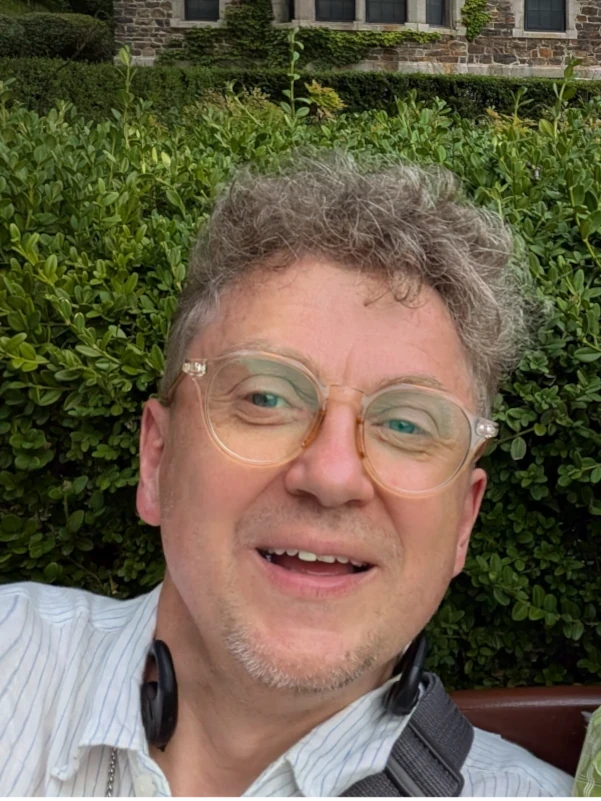
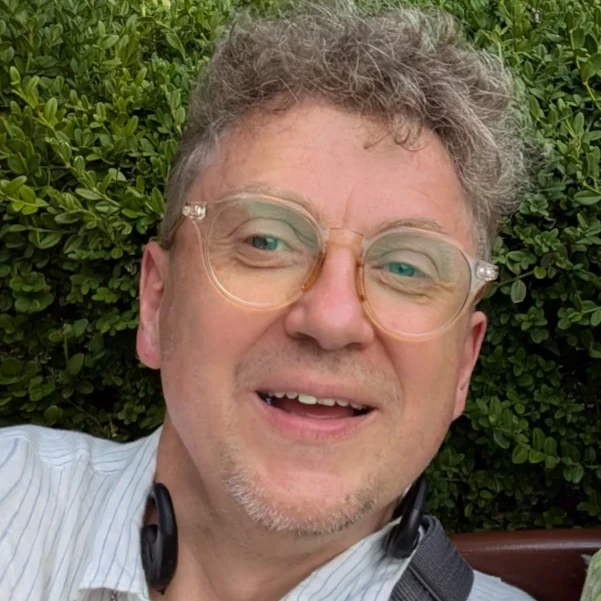
Porträts der Betreuenden quadratisch, neue Fotos 600 × 600 (claude code)

diff --git a/src/style.css b/src/style.css
@@ -859,12 +859,12 @@ dl.contact dd:last-child { margin-bottom: 0; }
 }
 
 /* Das Porträt reicht bis an den Kartenrand, direkt unter der Goldlinie.
-   Ein Foto wird auf 3:4 (Hochformat) zugeschnitten, Gesichter sitzen im oberen Drittel.
+   Ein Foto wird quadratisch zugeschnitten, Gesichter sitzen im oberen Drittel.
    Solange keines vorliegt, steht dort ein gezeichneter Platzhalter: eine
    Gestalt unter einem Türbogen über der Schwelle — das Motiv des Namens. */
 .portrait {
   margin: calc(var(--s2) * -1) calc(var(--s2) * -1) var(--s2);
-  aspect-ratio: 3 / 4;
+  aspect-ratio: 1 / 1;
   overflow: hidden;
   background: var(--paper);
   border-bottom: 1px solid var(--line);

diff --git a/tools/build.py b/tools/build.py
@@ -277,7 +277,7 @@ def portrait(person: dict) -> str:
     """
     if person["bild"] is not None:
         return (f'<img src="{person["bild"]}" alt="Porträt von {html(person["name"])}" '
-                'width="600" height="800" loading="lazy" decoding="async">')
+                'width="600" height="600" loading="lazy" decoding="async">')
     return ('<svg class="platzhalter" viewBox="0 0 400 300" preserveAspectRatio="xMidYMid slice" role="img" '
             f'aria-label="Platzhalter, noch kein Porträt von {html(person["name"])}">'
             '<rect class="grund" width="400" height="300"/>'

diff --git a/docs/pflege.md b/docs/pflege.md
@@ -116,7 +116,7 @@ Ein Eintrag in `src/betreuende.json` hat genau diese Felder:
   die Postanschrift des Büros.
 - `bild` — `null` oder der Dateiname eines Porträts `<kennung>.jpg`, `.webp`
   oder `.png` in `src/betreuende/`; der Build kopiert es in die Ausgabe. Die
-  Karte schneidet es auf 3:4 (Hochformat) zu, das Gesicht im oberen Drittel; 600 × 800
+  Karte schneidet es quadratisch zu, das Gesicht im oberen Drittel; 600 × 600
   Pixel genügen. Ohne Foto zeigt die Karte einen gezeichneten Platzhalter.
 
 Der Vorstellungstext ist ein HTML-Ausschnitt ohne Platzhalter; er gehört dem
